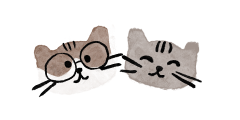
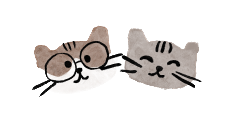
feat: responsive hero and timeline

diff --git a/src/pages/schedule.tsx b/src/pages/schedule.tsx
@@ -1,5 +1,6 @@
 import superjson from "superjson";
 import { createServerSideHelpers } from "@trpc/react-query/server";
+import Image from "next/image";
 
 import { appRouter } from "~/server/api/root";
 import { createInnerTRPCContext } from "~/server/api/trpc";
@@ -14,6 +15,8 @@ import { api } from "~/utils/api";
 import { useRouter } from "next/router";
 import { Dialog, DialogContent, DialogTrigger } from "~/ui";
 import { FormRSVP } from "~/modules/rsvp";
+import { Grid } from "lucide-react";
+import { time } from "console";
 
 const Schedule: NextPage = (
   props: InferGetServerSidePropsType<typeof getServerSideProps>
@@ -34,13 +37,13 @@ const Schedule: NextPage = (
 
   return (
     <div className="flex h-full flex-col">
-      <div className="relative w-full">
-        <div className="container mx-auto flex min-h-[50em] max-w-3xl flex-col items-center justify-center">
-          <img src="/hero-kittens.png" />
+      <div className="relative flex w-full flex-col items-center">
+        <div className="mx-auto flex min-h-screen max-w-3xl flex-col items-center justify-center pt-16">
+          <Image src="/hero-kittens.png" alt="Cat" height={70} width={175} />
           <p className="max-w-[12ch] text-center font-gistesy text-5xl text-brown md:max-w-lg md:text-7xl">
             {`We're getting married!`}
           </p>
-          <p className="color-text font-cardo text-lg font-light lowercase md:text-xl">
+          <p className="color-text text-center font-cardo text-lg font-light lowercase md:text-xl">
             {`and you're invited to celebrate with us!`}
           </p>
 
@@ -65,58 +68,171 @@ const Schedule: NextPage = (
               </p>
             </div>
           )}
+          <Image
+            className="-z-10 block h-1/2 sm:hidden"
+            src="/hero-polaroids-c.png"
+            height={650}
+            width={478}
+            alt="Image Polaroid"
+          />
         </div>
-        <img
-          className="absolute left-0 top-0 -z-10"
+        <Image
+          className="absolute left-0 top-0 -z-10 hidden sm:block"
           src="/hero-polaroids-a.png"
+          height={800}
+          width={500}
+          alt="Image Polaroid"
         />
-        <img
-          className="absolute right-0 top-0 -z-10"
+        <Image
+          className="absolute right-0 top-0 -z-10 hidden sm:block"
           src="/hero-polaroids-b.png"
+          height={800}
+          width={500}
+          alt="Image Polaroid"
         />
       </div>
 
       <div className="my-16 flex flex-col items-center justify-center">
         <p className="font-gistesy text-5xl text-brown ">Schedule</p>
-        <img src="/timeline-flowers.png" className="w-24" />
-        <p className="mt-8 font-cardo text-3xl text-lightbrown">
+        <Image
+          src="/timeline-flowers.png"
+          className="w-24"
+          height={800}
+          width={500}
+          alt="Flower"
+        />
+        <p className="mt-8 text-center font-cardo text-3xl text-lightbrown">
           Saturday November 4th, 2023
         </p>
         <ButtonAddToCalendar />
       </div>
 
-      <div className="my-8 flex flex-col items-center justify-center gap-2">
-        <div className="grid max-w-[40ch] grid-cols-2">
-          <div className="text-right">
-            <p className="font-cardo text-xl">Ceremony</p>
-            <p className="font-karla">12:45pm - 2:30pm</p>
-            <p className="font-karla text-sm">
-              Please arrive and be seated by 12:45pm for a 1:00pm start.
-              Children are welcome.
-            </p>
-          </div>
-          <img src="/timeline-ring.png" />
+      <Timeline
+        version={
+          personDetails?.data?.access === "Reception" ? "reception" : "ceremony"
+        }
+      />
+    </div>
+  );
+};
+
+type Timeline = {
+  title: string;
+  time: string;
+  description: string;
+  imgSrc: string;
+  imgAlt: string;
+};
+const timeline = {
+  ceremony: {
+    title: "Ceremony",
+    time: "12:45pm - 2:30pm",
+    description:
+      "Please arrive and be seated by 12:45pm for a 1:00pm start. Children are welcome.",
+    imgSrc: "/timeline-ring.png",
+    imgAlt: "Wedding Ring",
+  },
+  socialHover: {
+    title: "Social Hover",
+    time: "2:30pm - 4:00pm",
+    description:
+      "After the ceremony and photos, please join us for light refreshments in the Parish Hall next to the church.",
+    imgSrc: "/timeline-cake.png",
+    imgAlt: "Wedding Cake",
+  },
+  reception: {
+    title: "Reception",
+    time: "7:00pm - 12:00pm",
+    description:
+      "Please arrive and be seated by 12:45pm for a 1:00pm start. Children are welcome.",
+    imgSrc: "/timeline-steak.png",
+    imgAlt: "Wedding Steak",
+  },
+};
+
+const GridItem = (props: Timeline & { align: "left" | "right" }) => (
+  <>
+    {props.align == "left" && (
+      <>
+        <Image
+          src={props.imgSrc}
+          className="w-24 self-center justify-self-end"
+          height={100}
+          width={100}
+          alt={props.imgAlt}
+        />
+        <div className="p-4 text-left">
+          <p className="font-cardo text-xl text-brown">{props.title}</p>
+          <p className="font-karla text-lightbrown">{props.time}</p>
+          <p className="font-karla text-sm">{props.description}</p>
         </div>
-        <div className="max-w-xl">
-          <img src="/timeline-cake.png" className="w-24" />
-          <p>Social Hover</p>
-          <p>2:30pm - 4:00pm</p>
-          <p>
-            After the ceremony and photos, please join us for light refreshments
-            in the Parish Hall next to the church.
-          </p>
+      </>
+    )}
+    {props.align == "right" && (
+      <>
+        <div className="p-4 text-right">
+          <p className="font-cardo text-xl text-brown">{props.title}</p>
+          <p className="font-karla text-lightbrown">{props.time}</p>
+          <p className="font-karla text-sm">{props.description}</p>
         </div>
-        {personDetails.data?.access === "Reception" && (
-          <div className="max-w-xl">
-            <img src="/timeline-steak.png" className="w-24" />
-            <p>Reception</p>
-            <p>7:00pm - 12:00am</p>
-            <p>
-              Please arrive and be seated by 12:45pm for a 1:00pm start.
-              Children are welcome.
-            </p>
-          </div>
+        <Image
+          src={props.imgSrc}
+          className="w-24 self-center"
+          height={100}
+          width={100}
+          alt={props.imgAlt}
+        />
+      </>
+    )}
+  </>
+);
+
+const MobileItem = (props: Timeline) => (
+  <div className="flex w-full max-w-[30ch] flex-col items-center text-center">
+    <Image
+      src={props.imgSrc}
+      className="w-24 self-center"
+      height={100}
+      width={100}
+      alt={props.imgAlt}
+    />
+    <p className="font-cardo text-xl text-brown">{props.title}</p>
+    <p className="font-karla text-lightbrown">{props.time}</p>
+    <p className="font-karla text-sm">{props.description}</p>
+  </div>
+);
+
+const Timeline = ({ version }: { version: "reception" | "ceremony" }) => {
+  return (
+    <div className="my-8 flex flex-col items-center justify-center gap-2">
+      <div className="hidden max-w-[70ch] grid-cols-[1fr_2em_1fr] gap-y-4 gap-x-2 sm:grid">
+        <div className="col-start-2 col-end-2 row-span-3 row-start-1 my-auto flex h-4/5 flex-col">
+          {version === "ceremony" ? (
+            <>
+              <div className="mx-auto h-[15px] w-[15px] rounded-full bg-brown" />
+              <div className="mx-auto h-4/5 w-[3px] bg-brown" />
+              <div className="mx-auto h-[15px] w-[15px] rounded-full bg-brown" />
+            </>
+          ) : (
+            <>
+              <div className="mx-auto h-[15px] w-[15px] rounded-full bg-brown" />
+              <div className="mx-auto h-2/5 w-[3px] bg-brown" />
+              <div className="mx-auto h-[15px] w-[15px] rounded-full bg-brown" />
+              <div className="mx-auto h-2/5 w-[3px] bg-brown" />
+              <div className="mx-auto h-[15px] w-[15px] rounded-full bg-brown" />
+            </>
+          )}
+        </div>
+        <GridItem {...timeline["ceremony"]} align="right" />
+        <GridItem {...timeline["socialHover"]} align="left" />
+        {version === "reception" && (
+          <GridItem {...timeline["reception"]} align="right" />
         )}
+      </div>
+      <div className="flex flex-col gap-4 sm:hidden">
+        <MobileItem {...timeline["ceremony"]} />
+        <MobileItem {...timeline["socialHover"]} />
+        {version === "reception" && <MobileItem {...timeline["reception"]} />}
       </div>
     </div>
   );
@@ -134,9 +250,16 @@ const ButtonAddToCalendar = () => {
           start: "2023-11-04T17:00:00+11:00",
           end: "2023-11-04T23:00:00+11:00",
         };
-        const calendar = window.open(
-          `https://calendar.google.com/calendar/render?action=TEMPLATE&text=${event.title}&dates=${event.start}/${event.end}&details=${event.description}&location=${event.location}&sf=true&output=xml`
-        );
+        const url = new URL("https://calendar.google.com/calendar/render");
+        url.searchParams.set("action", "TEMPLATE");
+        url.searchParams.set("text", event.title);
+        url.searchParams.set("dates", `${event.start}/${event.end}`);
+        url.searchParams.set("details", event.description);
+        url.searchParams.set("location", event.location);
+        url.searchParams.set("sf", "true");
+        url.searchParams.set("output", "xml");
+
+        const calendar = window.open(url.toString());
 
         calendar?.document?.close();
         calendar?.focus();
